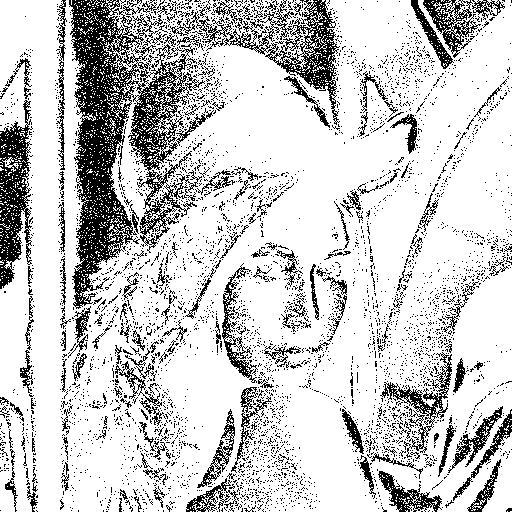
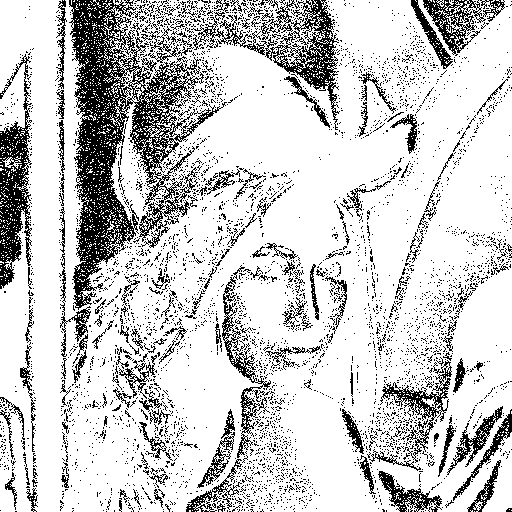
ok, another go at the canvas copier

diff --git a/lib/gleech.js b/lib/gleech.js
@@ -73,7 +73,7 @@
   };
 
   arrayToCanvas = function(arr, width, height) {
-    var buff, can, ctx, ctxData, i, imgdata, k, len, middle, pixel, pixelData;
+    var buff, can, ctx, ctxData, i, imgdata, k, len, pixel, pixelData;
     can = typeof exports !== "undefined" && exports !== null ? new Canvas() : document.createElement('canvas');
     can.width = width;
     can.height = height;
@@ -85,10 +85,8 @@
       pixel = buff[i];
       pixelData[i] = pixel;
     }
-    middle = (width * height) * 4;
     ctx.putImageData(imgdata, 0, 0);
     ctxData = ctx.getImageData(0, 0, width, height);
-    console.log(pixelData.slice(middle, middle + 4), ctxData.slice(middle, middle + 4));
     return can;
   };
 
@@ -554,6 +552,22 @@
       results.push(this.colorShift);
     }
     return results;
+  });
+
+  Caman.Filter.register('ditherShuffle', function() {
+    var count;
+    count = 0;
+    return this.process('ditherShuffle', function() {
+      var loc, pxl, x, y;
+      count++;
+      if (count % 2) {
+        loc = this.locationXY();
+        x = this.width - loc.x;
+        y = this.height - loc.y;
+        pxl = this.getPixel(loc.x, loc.y);
+        return this.putPixel(x, y, pix);
+      }
+    });
   });
 
   Caman.Filter.register('ditherRandom', function() {
